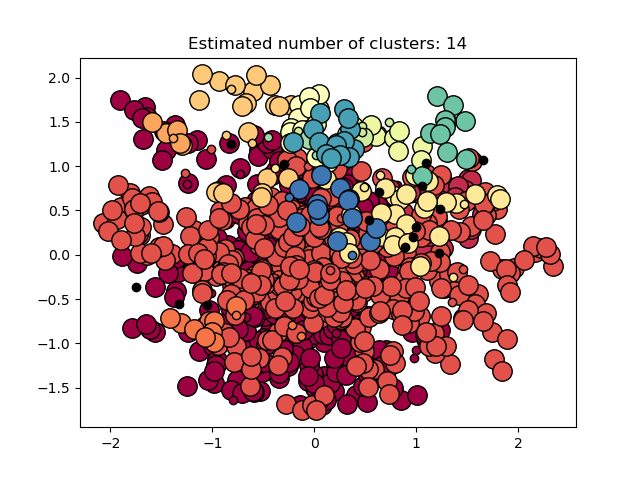
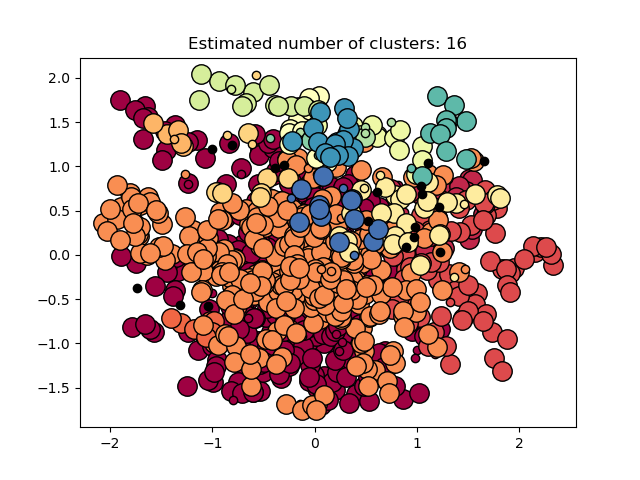
Update the result

diff --git a/assign4/clustering.py b/assign4/clustering.py
@@ -469,7 +469,7 @@ def main():
     min_samples = 5
     eps = determine_eps_value(x_num_pca, min_samples)
     print("Elbow eps value", eps)
-    eps_modifier = 1.35
+    eps_modifier = 1.2
     db = DBSCAN(eps=eps * eps_modifier, min_samples=min_samples, n_jobs=-1)
     agglomerative = AgglomerativeClustering(n_clusters=num_cluster, connectivity=None, linkage="ward", compute_distances=True)
 
